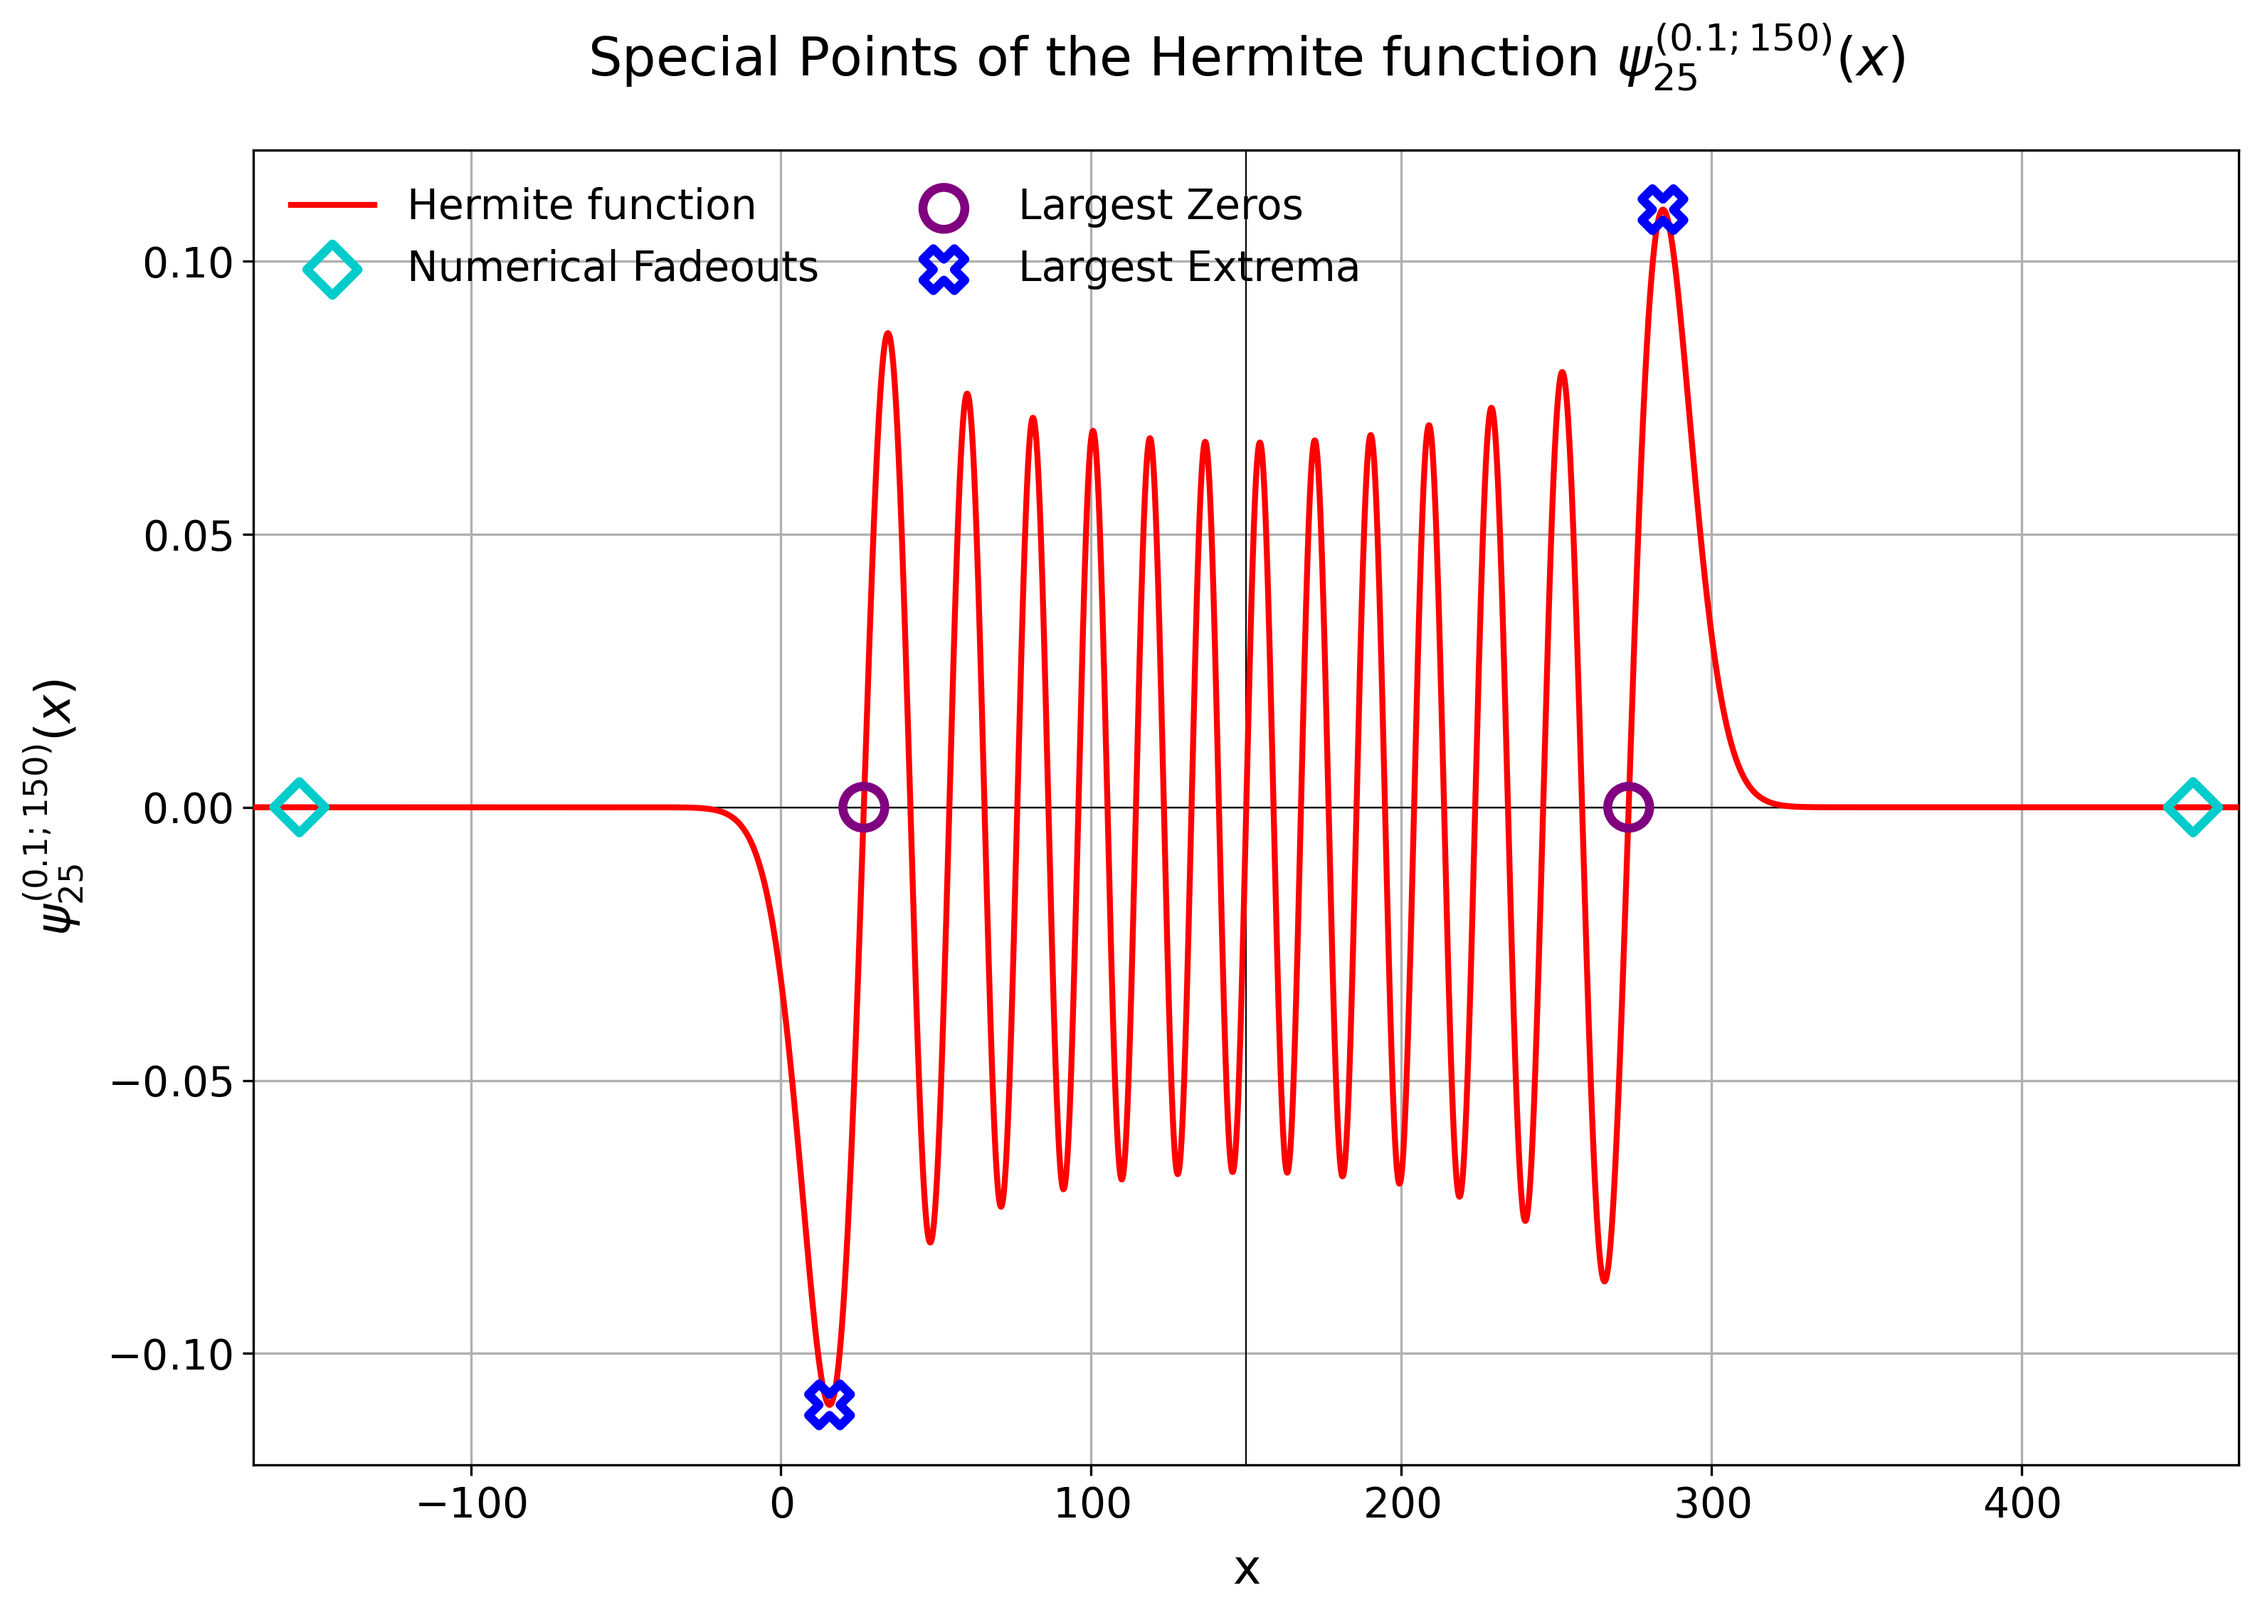
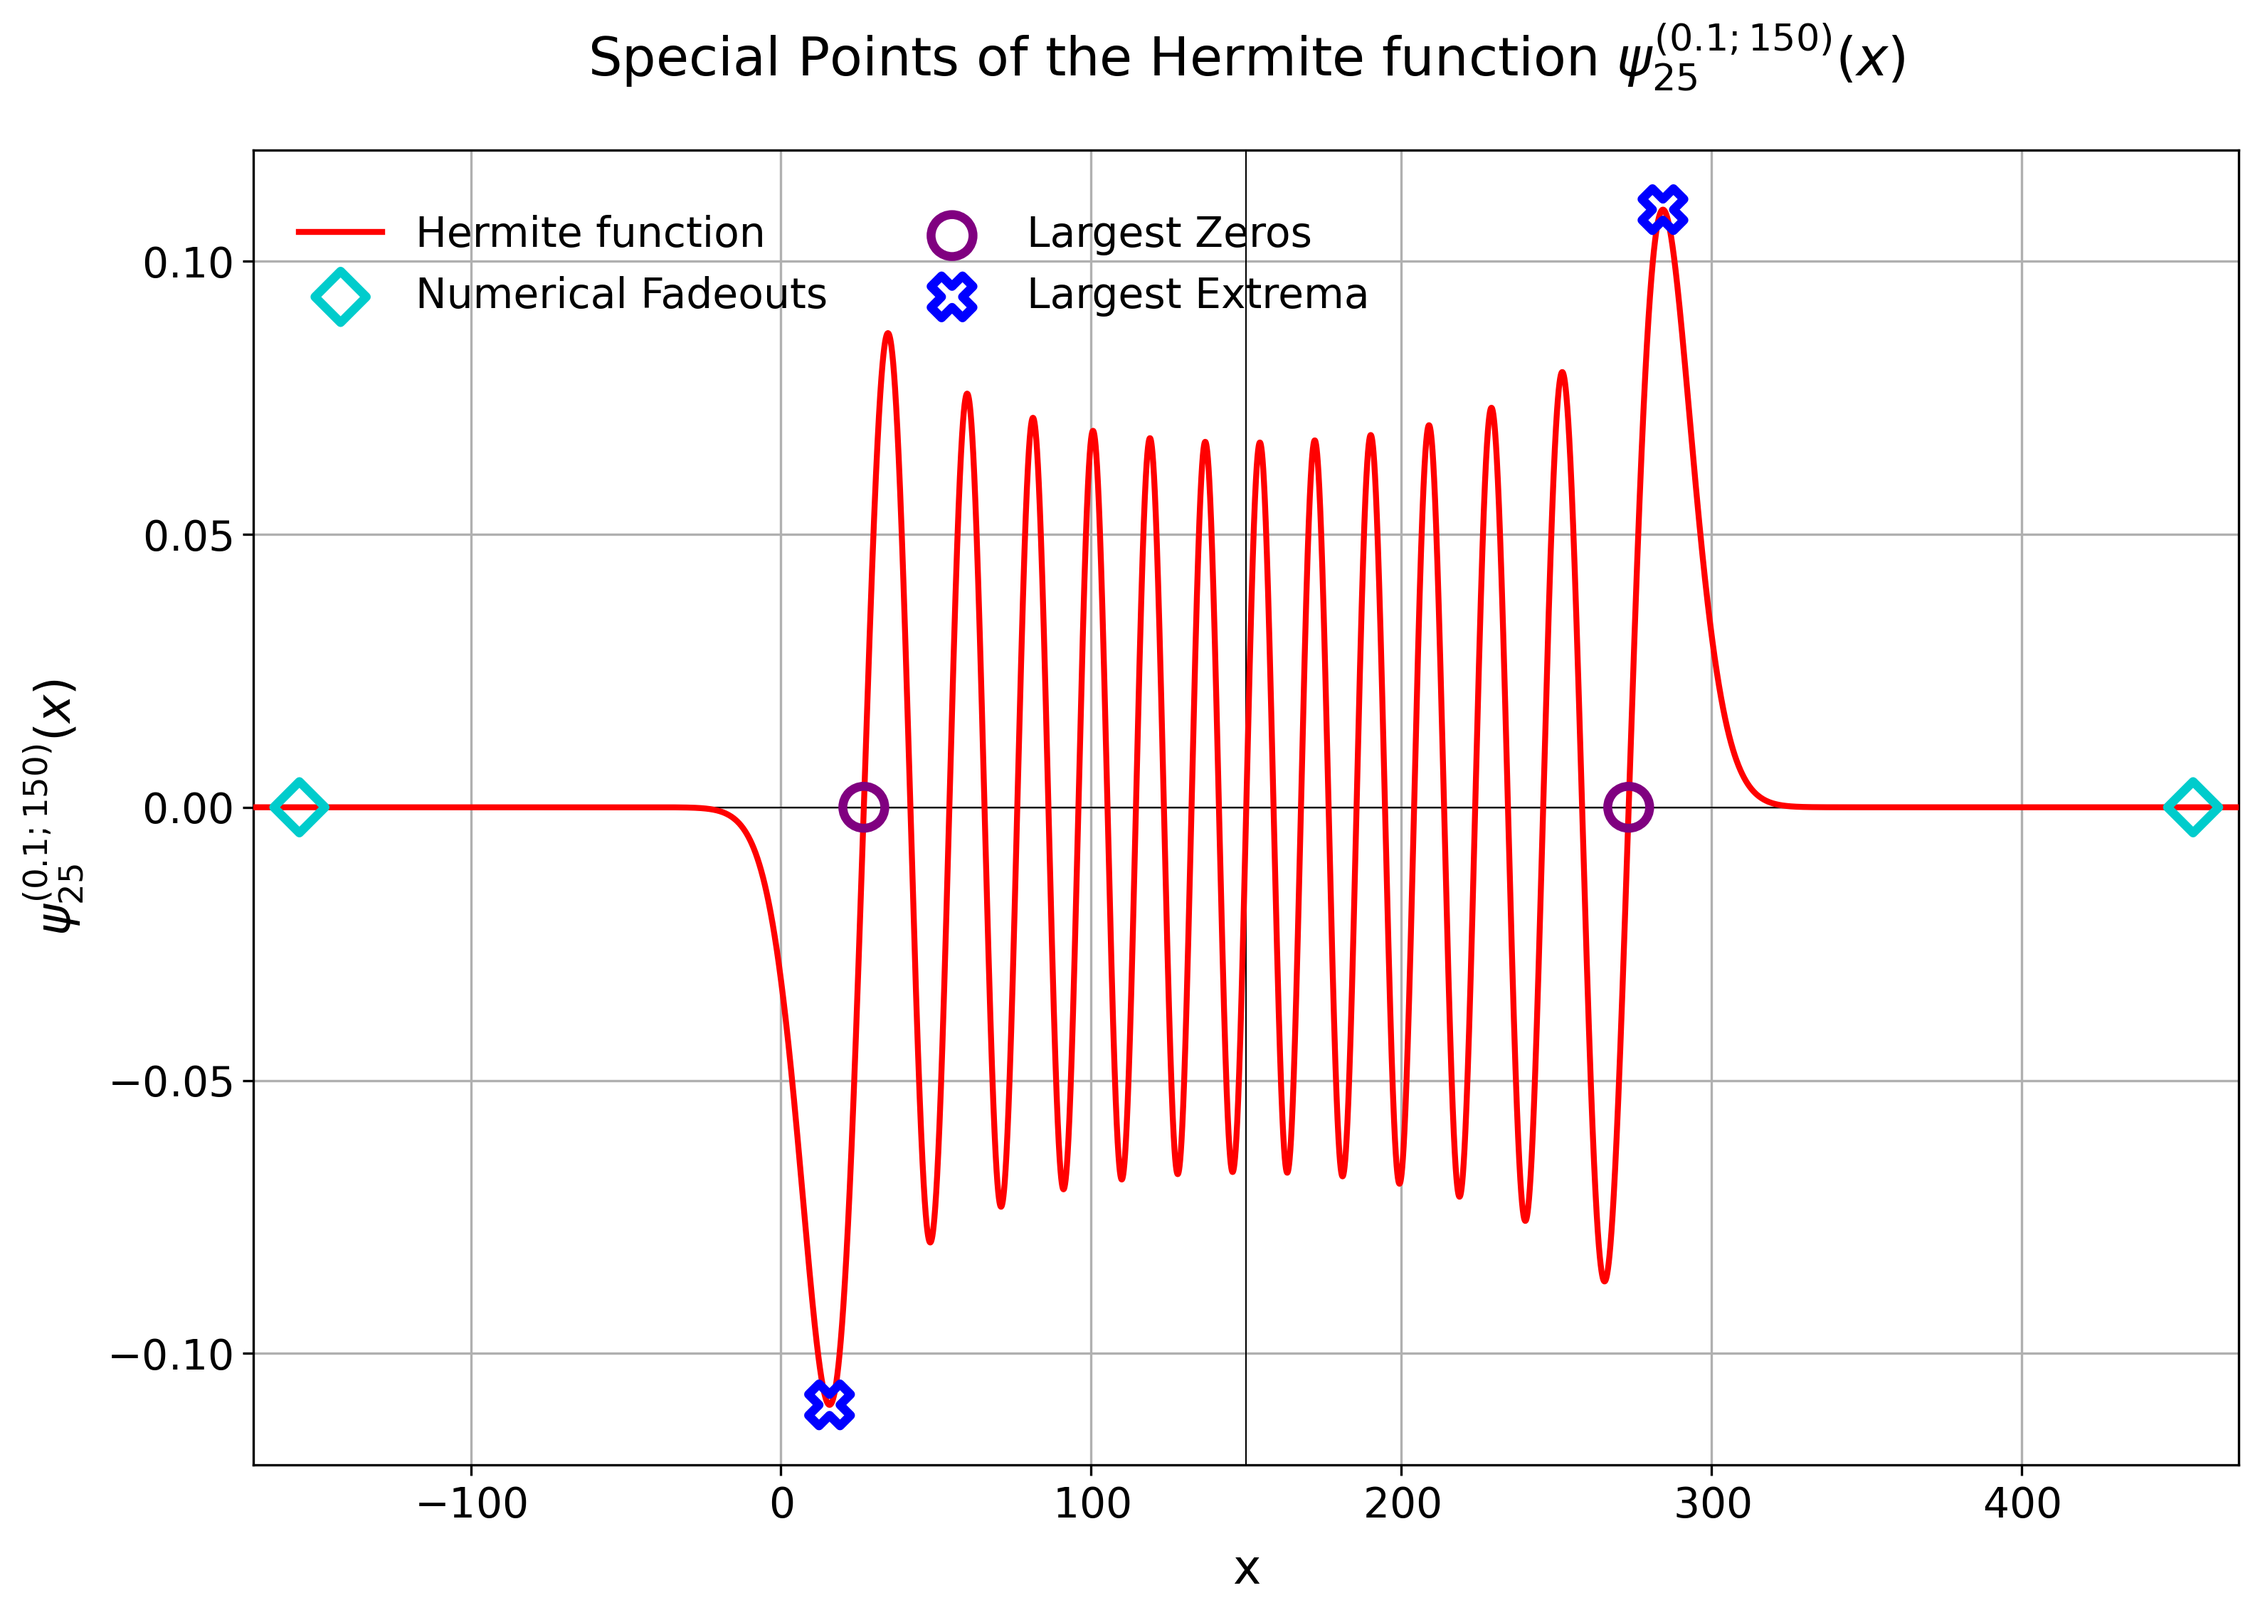
DOC: - arranged legend of plot for special points of Hermite functions in a better position

Changed region(s): [[0.4052, 0.0925, 0.6234, 0.2159], [0.1247, 0.1233, 0.3741, 0.2159]]

diff --git a/examples/04_hermite_special_points.py b/examples/04_hermite_special_points.py
@@ -147,7 +147,11 @@ if __name__ == "__main__":
     ax.set_title("Special Points of the Hermite function " + psi_label)
     ax.set_xlabel("x")
     ax.set_ylabel(psi_label)
-    ax.legend(ncol=2)
+    ax.legend(
+        ncol=2,
+        loc=8,
+        bbox_to_anchor=(0.2925, 0.845),
+    )
 
     ax.set_xlim(X_FROM + MU, X_TO + MU)
 
